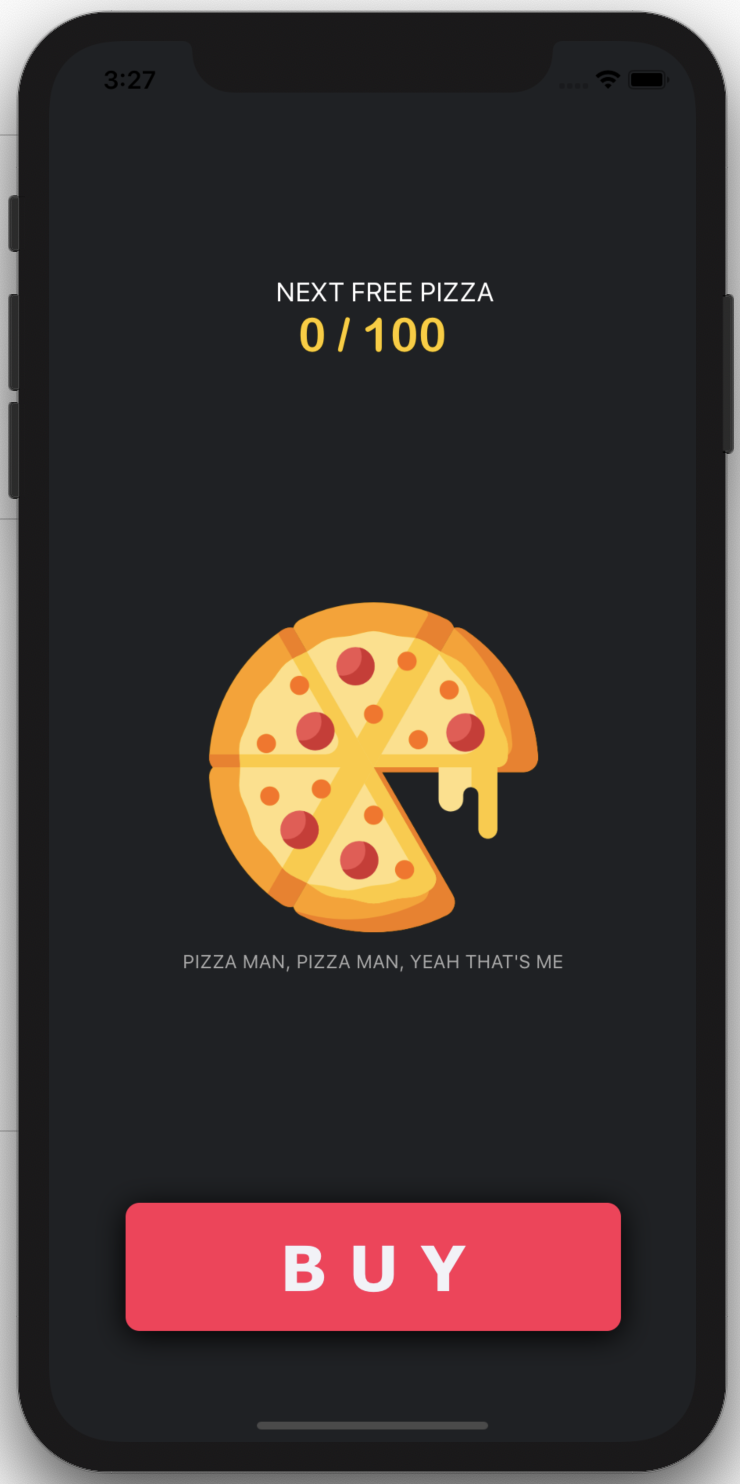
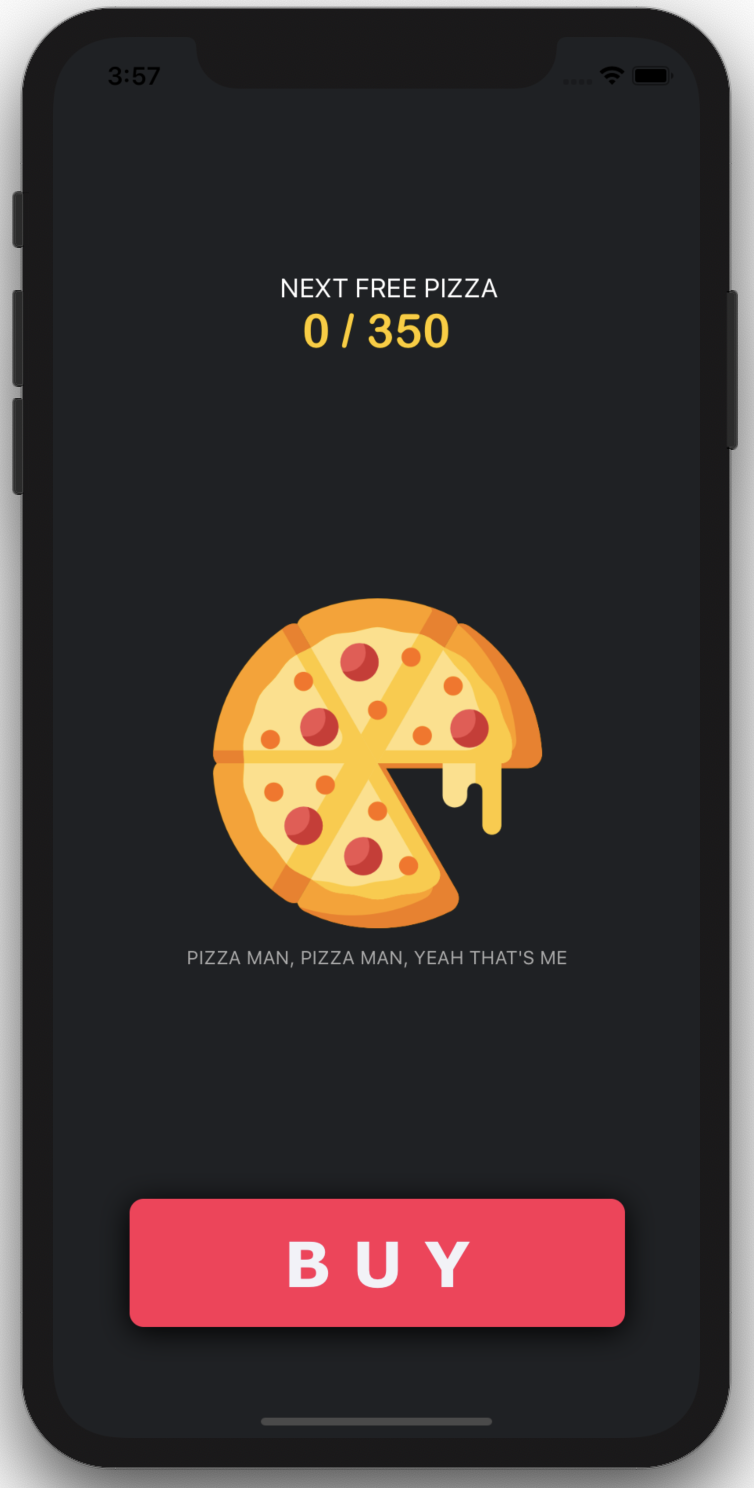
local

diff --git a/PropertyObserval/PropertyObserval/ViewController.swift b/PropertyObserval/PropertyObserval/ViewController.swift
@@ -79,7 +79,7 @@ class ViewController: UIViewController {
     func reset() {
         // animate outlet that are meant to be reset.
         UIView.animate(withDuration: 0.3) {
-            self.pointsLabelOutlet.text = "0 / 100"
+            self.pointsLabelOutlet.text = "0 / 350"
             self.redeemButtonOutlet.isHidden = true
             self.congratsOutlet.isHidden = true
             self.pizzaPoint = 0

diff --git a/PropertyObserval/README.md b/PropertyObserval/README.md
@@ -1,4 +1,4 @@
-# Property Observal 
+### Property Observal 
 
 
 <img   src="ui/4.jpeg" align=”center” >
